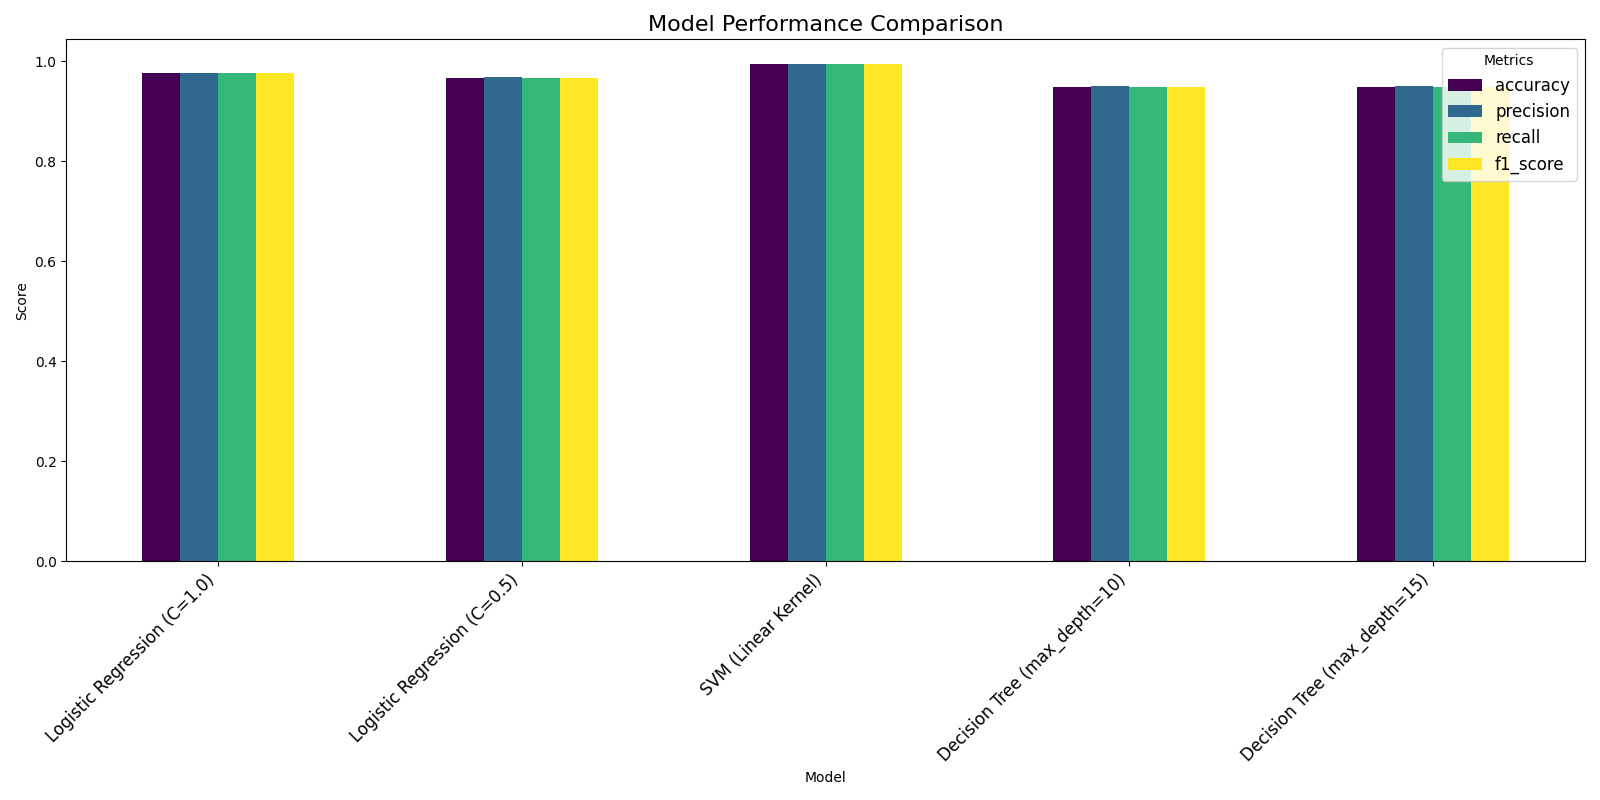
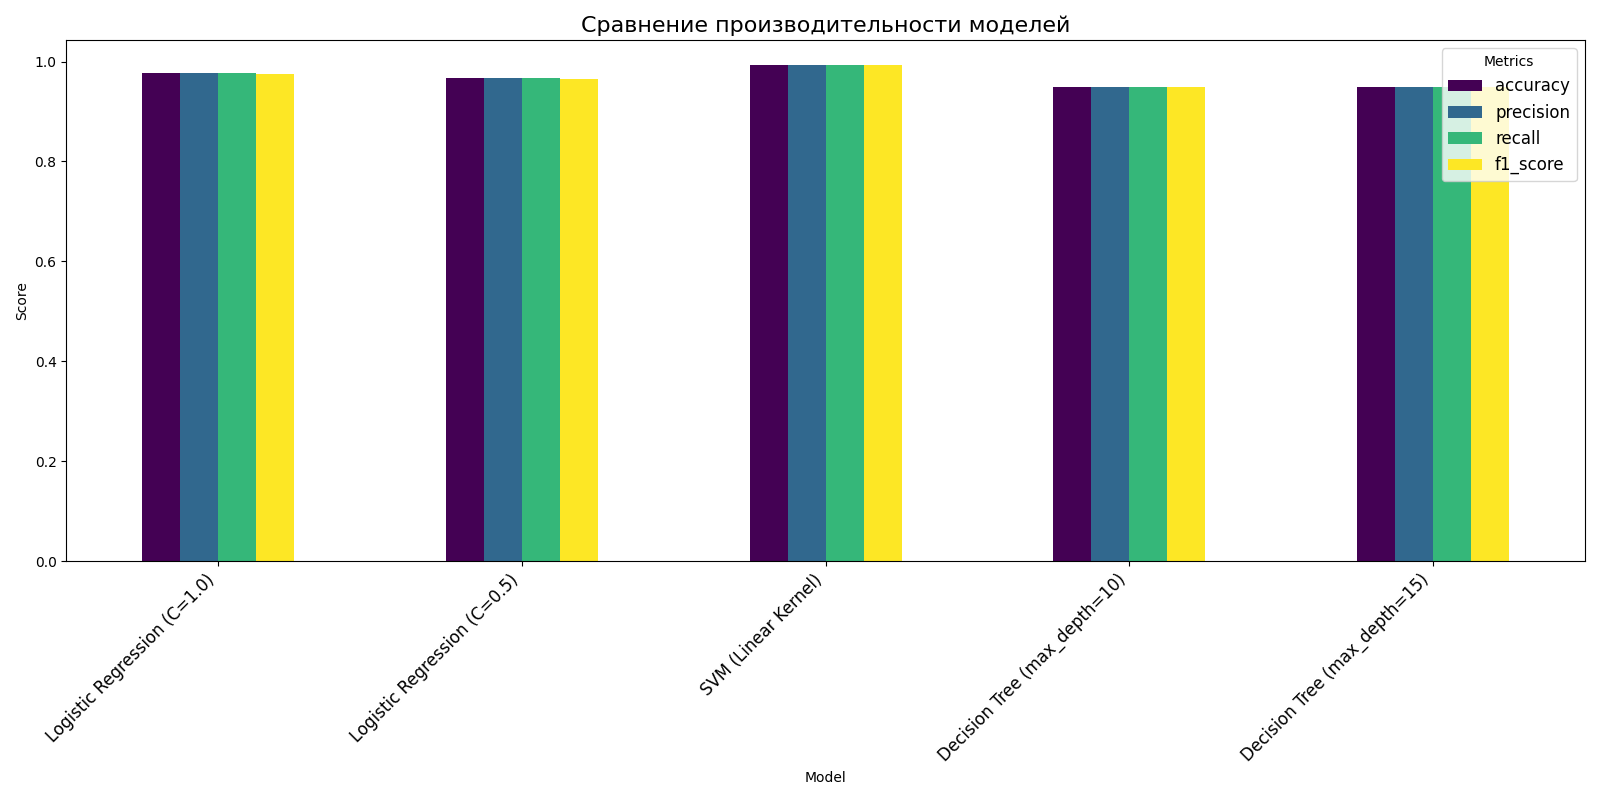
Update report

Changed region(s): [[0.3438, 0.0, 0.6875, 0.0625], [0.9375, 0.125, 0.9688, 0.1875], [0.9375, 0.0625, 0.9688, 0.0938]]

diff --git a/mlflow_output/index.html b/mlflow_output/index.html
@@ -162,26 +162,21 @@
             padding-left: 1.5em;
         }
     </style>
+
 </head>
 <body>
-    <h1>Experiment: obesity_prediction_experiment</h1>
-    <p>Generated on: 2025-01-31 18:33:31</p>
-    <p>Experiment ID: 20250131183331</p>
+    <h1>Эксперимент: obesity_prediction_experiment</h1>
+    <p>Сгенерировано: 2025-01-31 19:31:09</p>
 
     <h2>Краткий обзор</h2>
     <p>В этом эксперименте сравнивается производительность различных моделей машинного обучения на наборе данных о риске возникновения ожирения. Среди тестируемых моделей:</p>
     <ul>
         <li><strong>Logistic Regression</strong>: Линейная модель, используемая для классификации. Мы протестировали два варианта: стандартный `C=1.0` и `C=0.5`.</li>
-        <li><strong>Decision Tree</strong>: Нелинейная модель с регулируемой глубиной. Мы протестировали две вариации: max depth `10` and `15`.</li>
+        <li><strong>Decision Tree</strong>: Нелинейная модель с регулируемой глубиной. Мы протестировали две вариации: max depth `10` и `15`.</li>
         <li><strong>SVM (Linear Kernel)</strong>: Метод опорных векторов (SVM) с линейным ядром используется для классификации, особенно эффективен для линейно разделимых данных.</li>
     </ul>
-    <p>Использовались следующие гиперпараметры:</p>
-    <ul>
-        <li>Logistic Regression: `max_iter=1000` и `max_iter=2000` с `C=1.0` and `C=0.5`.</li>
-        <li>Decision Tree: `max_depth=10` и `max_depth=15`.</li>
-    </ul>
-
-    <h2>Models Performance Metrics</h2>
+    
+    <h2>Метрики производительности моделей</h2>
     <table>
         <thead>
             <tr>
@@ -373,13 +368,14 @@
         </tbody>
     </table>
 
+
     <h2>Сравнение производительности</h2>
     <img src="performance_comparison.png" alt="Performance Comparison">
 
     <!-- MLflow Performance Analysis Section -->
     <section class="mlflow-analysis">
         <h2>Подробный анализ производительности моделей</h2>
-        
+
         <!-- Графики производительности -->
         <div class="performance-plots">
             <h3>График производительности</h3>
@@ -404,7 +400,7 @@
                     
                     <tr>
                         <td>Logistic Regression (C=1.0)</td>
-                        <td>26.79</td>
+                        <td>14.29</td>
                         <td>FINISHED</td>
                         <td>
                             <details>
@@ -450,7 +446,7 @@
                     
                     <tr>
                         <td>Logistic Regression (C=0.5)</td>
-                        <td>9.22</td>
+                        <td>9.32</td>
                         <td>FINISHED</td>
                         <td>
                             <details>
@@ -496,7 +492,7 @@
                     
                     <tr>
                         <td>SVM (Linear Kernel)</td>
-                        <td>9.32</td>
+                        <td>9.85</td>
                         <td>FINISHED</td>
                         <td>
                             <details>
@@ -542,7 +538,7 @@
                     
                     <tr>
                         <td>Decision Tree (max_depth=10)</td>
-                        <td>9.50</td>
+                        <td>9.80</td>
                         <td>FINISHED</td>
                         <td>
                             <details>
@@ -584,7 +580,7 @@
                     
                     <tr>
                         <td>Decision Tree (max_depth=15)</td>
-                        <td>10.84</td>
+                        <td>9.43</td>
                         <td>FINISHED</td>
                         <td>
                             <details>
@@ -718,18 +714,19 @@ weighted avg       0.95      0.95      0.95       627
         </div>
     
 
+
     <h2>Выводы</h2>
-    <p>
-        <strong>Лучшая модель:</strong> Модель дерева решений с `max_depth=15` достигла наивысших значений accuracy (0.9936), precision (0.9937), recall (0.9936) и f1_score (0.9936), что делает ее самой надежной моделью в этом эксперименте.</p>
-    <p>
-        <strong>Логистическая регрессия: </strong> Эта модель показала относительно низкую производительность в сравнении. Изменение параметра регуляризации `C` не оказало существенного влияния на ее производительность, что говорит о том, что она может быть не самой лучшей моделью для данного набора данных.
-    </p>
-    <p>
-        <strong>Эффект глубины дерева решений:</strong> Увеличение max_depth дерева решений с 10 до 15 улучшило все показатели производительности, указывая на то, что при меньшей глубине модель была недостаточно приспособлена.
-    </p>
-    <p>
-        <strong>Время обучения моделей</strong>: Логистическая регрессия с C=1.0 требует значительно больше времени на обучение (4.8 секунд) по сравнению с другими моделями. Интересно отметить, что уменьшение параметра регуляризации C до 0.5 существенно сократило время обучения до 2.9 секунд. Деревья решений показали стабильное время обучения около 3 секунд независимо от глубины (max_depth=10 или max_depth=15), что делает их не только более эффективными по метрикам качества, но и достаточно быстрыми в обучении.
-    </p>
+    <ul>
+        
+            <li>Наилучшая модель: SVM (Linear Kernel), так как она показала лучшие метрики.</li>
+        
+            <li>Результаты других моделей проанализированы в таблицах выше.</li>
+        
+            <li>Модели логистической регрессии также продемонстрировали хорошие результаты, но с некоторыми недостатками в полноте для класса "негатив".</li>
+        
+            <li>Модели деревьев решений оказались менее эффективными по сравнению с линейными моделями, что может быть связано с их чувствительностью к переобучению, особенно при увеличении глубины дерева.</li>
+        
+    </ul>
 
 </body>
 </html>

diff --git a/report_template.html b/report_template.html
@@ -162,26 +162,21 @@
             padding-left: 1.5em;
         }
     </style>
+
 </head>
 <body>
-    <h1>Experiment: {{ experiment_name }}</h1>
-    <p>Generated on: {{ current_date }}</p>
-    <p>Experiment ID: {{ experiment_id }}</p>
+    <h1>Эксперимент: {{ experiment_name }}</h1>
+    <p>Сгенерировано: {{ current_date }}</p>
 
     <h2>Краткий обзор</h2>
     <p>В этом эксперименте сравнивается производительность различных моделей машинного обучения на наборе данных о риске возникновения ожирения. Среди тестируемых моделей:</p>
     <ul>
         <li><strong>Logistic Regression</strong>: Линейная модель, используемая для классификации. Мы протестировали два варианта: стандартный `C=1.0` и `C=0.5`.</li>
-        <li><strong>Decision Tree</strong>: Нелинейная модель с регулируемой глубиной. Мы протестировали две вариации: max depth `10` and `15`.</li>
+        <li><strong>Decision Tree</strong>: Нелинейная модель с регулируемой глубиной. Мы протестировали две вариации: max depth `10` и `15`.</li>
         <li><strong>SVM (Linear Kernel)</strong>: Метод опорных векторов (SVM) с линейным ядром используется для классификации, особенно эффективен для линейно разделимых данных.</li>
     </ul>
-    <p>Использовались следующие гиперпараметры:</p>
-    <ul>
-        <li>Logistic Regression: `max_iter=1000` и `max_iter=2000` с `C=1.0` and `C=0.5`.</li>
-        <li>Decision Tree: `max_depth=10` и `max_depth=15`.</li>
-    </ul>
-
-    <h2>Models Performance Metrics</h2>
+    
+    <h2>Метрики производительности моделей</h2>
     <table>
         <thead>
             <tr>
@@ -207,13 +202,14 @@
         </tbody>
     </table>
 
+
     <h2>Сравнение производительности</h2>
     <img src="{{ graph_path }}" alt="Performance Comparison">
 
     <!-- MLflow Performance Analysis Section -->
     <section class="mlflow-analysis">
         <h2>Подробный анализ производительности моделей</h2>
-        
+
         <!-- Графики производительности -->
         <div class="performance-plots">
             <h3>График производительности</h3>
@@ -270,18 +266,13 @@
         </div>
     {% endfor %}
 
+
     <h2>Выводы</h2>
-    <p>
-        <strong>Лучшая модель:</strong> Модель дерева решений с `max_depth=15` достигла наивысших значений accuracy ({{ best_accuracy }}), precision ({{ best_precision }}), recall ({{ best_recall }}) и f1_score ({{ best_f1_score }}), что делает ее самой надежной моделью в этом эксперименте.</p>
-    <p>
-        <strong>Логистическая регрессия: </strong> Эта модель показала относительно низкую производительность в сравнении. Изменение параметра регуляризации `C` не оказало существенного влияния на ее производительность, что говорит о том, что она может быть не самой лучшей моделью для данного набора данных.
-    </p>
-    <p>
-        <strong>Эффект глубины дерева решений:</strong> Увеличение max_depth дерева решений с 10 до 15 улучшило все показатели производительности, указывая на то, что при меньшей глубине модель была недостаточно приспособлена.
-    </p>
-    <p>
-        <strong>Время обучения моделей</strong>: Логистическая регрессия с C=1.0 требует значительно больше времени на обучение (4.8 секунд) по сравнению с другими моделями. Интересно отметить, что уменьшение параметра регуляризации C до 0.5 существенно сократило время обучения до 2.9 секунд. Деревья решений показали стабильное время обучения около 3 секунд независимо от глубины (max_depth=10 или max_depth=15), что делает их не только более эффективными по метрикам качества, но и достаточно быстрыми в обучении.
-    </p>
+    <ul>
+        {% for insight in insights %}
+            <li>{{ insight }}</li>
+        {% endfor %}
+    </ul>
 
 </body>
 </html>

diff --git a/experiments.py b/experiments.py
@@ -219,7 +219,8 @@ def generate_report(filtered_runs):
         figsize=(16, 8),
         colormap="viridis",
     )
-    plt.title("Model Performance Comparison", fontsize=16)
+
+    plt.title("Сравнение производительности моделей", fontsize=16)
     plt.ylabel("Score")
     plt.xticks(rotation=45, ha="right", fontsize=12)
     plt.legend(title="Metrics", fontsize=12)
@@ -233,16 +234,18 @@ def generate_report(filtered_runs):
 
     # Формирование выводов
     best_model = filtered_runs.loc[
-        filtered_runs["accuracy"].idxmax()
+        filtered_runs["f1_score"].idxmax()
     ]["Model"]
     insights = [
         f"Наилучшая модель: {best_model}, так как она показала лучшие метрики.",  # noqa:E501
-        "Результаты других моделей проанализированы в таблице ниже.",
+        "Результаты других моделей проанализированы в таблицах выше.",
+        "Модели логистической регрессии также продемонстрировали хорошие результаты, но с некоторыми недостатками в полноте для класса \"негатив\".",
+        "Модели деревьев решений оказались менее эффективными по сравнению с линейными моделями, что может быть связано с их чувствительностью к переобучению, особенно при увеличении глубины дерева."
     ]
 
     # Рендеринг HTML-отчета через Jinja2
     template_path = "report_template.html"
-    output_path = output_dir + "/index.html"
+    output_path = os.path.join(output_dir, "index.html")
 
     # Генерация идентификатора эксперимента
     experiment_id = datetime.now().strftime("%Y%m%d%H%M%S")
